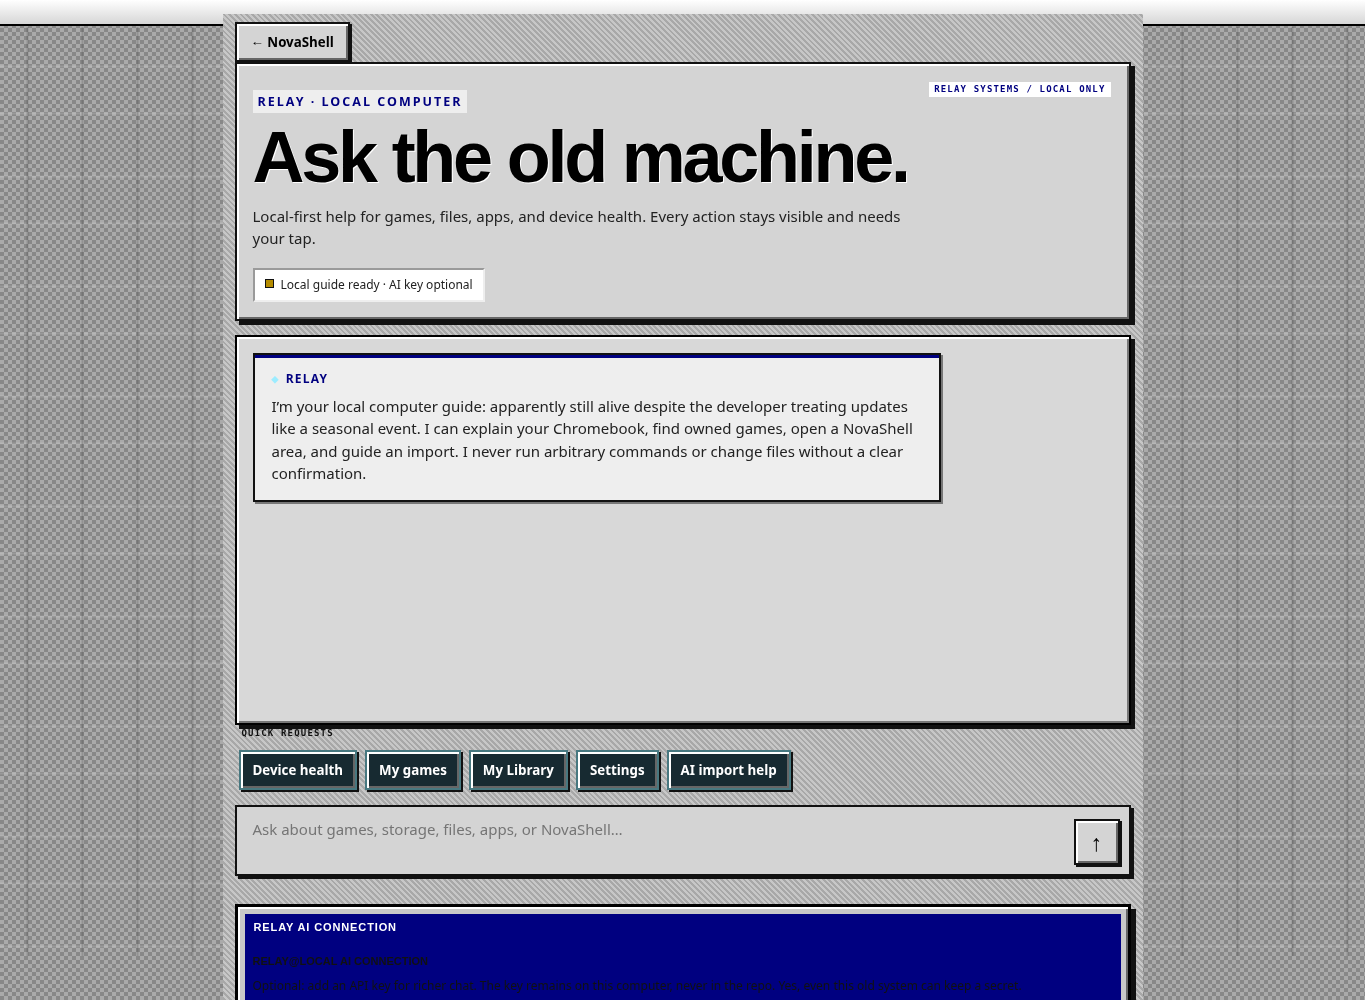
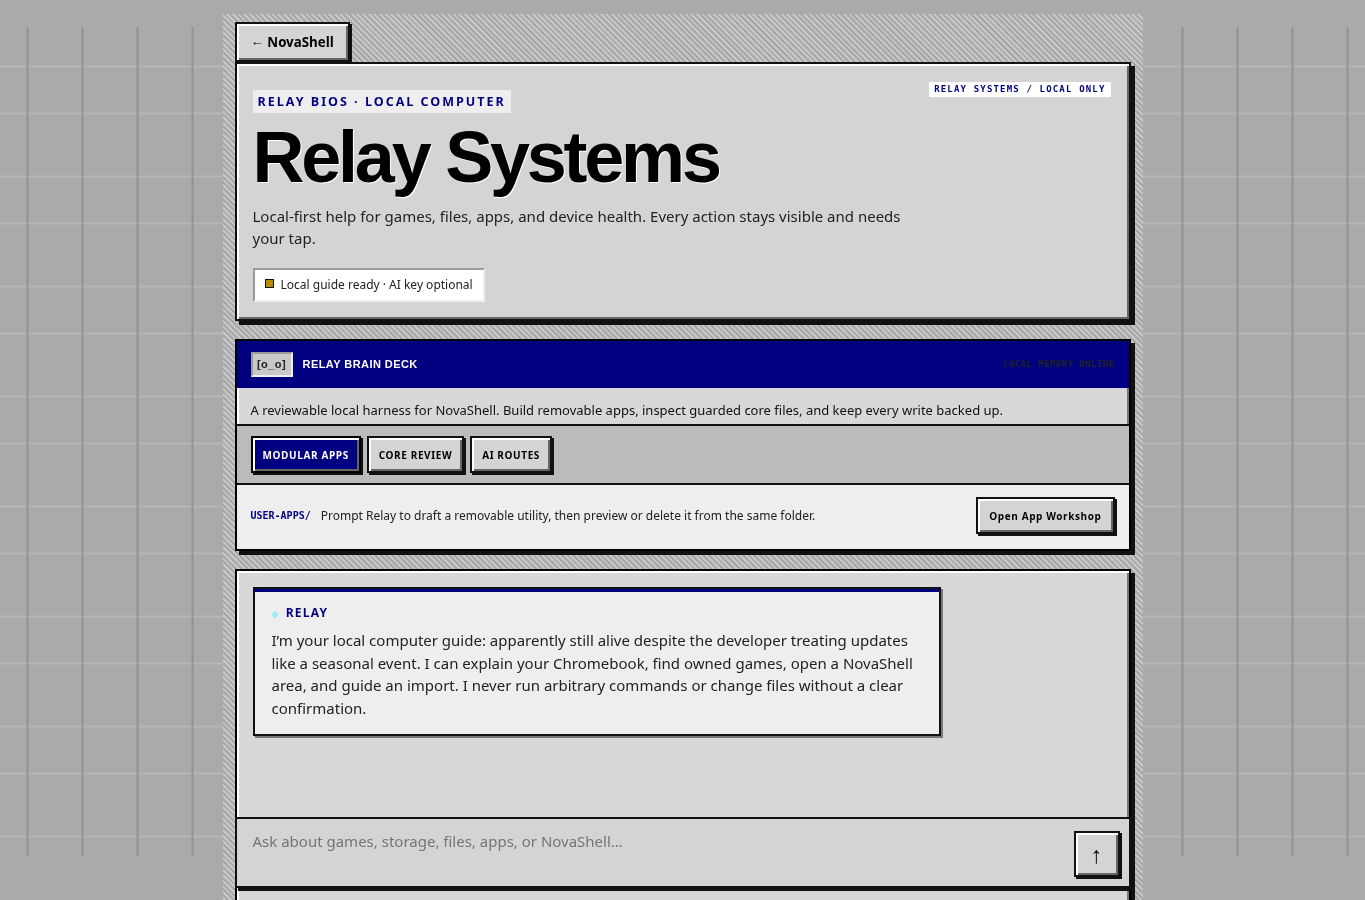
surface relay brain deck in retro terminal

diff --git a/assets/scripts/homebase/relay-brain-panel.js b/assets/scripts/homebase/relay-brain-panel.js
@@ -1,1 +1,20 @@
-(()=>{const boot=async()=>{const host=document.querySelector('.console-shell');if(!host||document.querySelector('#relay-brain'))return;const panel=document.createElement('section');panel.id='relay-brain';panel.className='assistant-terminal';panel.innerHTML='<div><span>RELAY@LOCAL</span><b> BRAIN & ACCESS</b></div><p><b>App agent</b> creates removable utilities in <code>user-apps/</code>. <b>Developer agent</b> may draft only allowlisted core edits; every write requires review, exact confirmation, and a local backup.</p><nav class="relay-tabs"><button data-tab="access">Access</button><button data-tab="free">Free AI routes</button></nav><div data-pane="access"><div class="relay-brain-actions"><button data-scope="app">Open app workshop</button><button data-scope="core">Open core editor</button><button data-scope="notes">Read Brain notes</button></div></div><div data-pane="free" hidden><p>Relay currently uses the configured Responses-compatible provider for both modular app drafts and core review drafts. Add a key in AI Connection; a route is only listed here when that same provider can safely serve both workflows.</p><a href="https://platform.openai.com/api-keys" target="_blank" rel="noopener">OpenAI API keys</a><a href="https://openrouter.ai/keys" target="_blank" rel="noopener">OpenRouter keys (adapter pending)</a><small>Keys remain local. Core writes still require an explicit reviewed confirmation.</small></div><small>Loading local conventions…</small>';host.querySelector('footer')?.before(panel);const note=panel.querySelector('small');try{const data=await fetch('/api/relay/knowledge').then(r=>r.json());note.textContent=(data.entries||[]).map(item=>item.path).join(' · ')||'No local Brain notes yet.'}catch{note.textContent='Restart Homebase to load local Brain notes.'}panel.querySelectorAll('.relay-tabs button').forEach(button=>button.onclick=()=>{panel.querySelectorAll('[data-pane]').forEach(pane=>pane.hidden=pane.dataset.pane!==button.dataset.tab)});panel.querySelector('[data-scope="app"]').onclick=()=>document.querySelector('#app-workshop textarea')?.focus();panel.querySelector('[data-scope="core"]').onclick=()=>document.querySelector('#relay-workspace [data-load]')?.click();panel.querySelector('[data-scope="notes"]').onclick=async()=>{try{const data=await fetch('/api/relay/knowledge').then(r=>r.json());note.textContent=(data.entries||[]).map(item=>item.path).join(' · ')}catch{note.textContent='Local Brain is unavailable.'}};document.head.insertAdjacentHTML('beforeend','<style>#relay-brain{margin-top:14px}.relay-brain-actions,.relay-tabs{display:flex;gap:8px;flex-wrap:wrap}.relay-brain-actions button,.relay-tabs button{min-height:40px}.relay-tabs{margin:12px 0}.relay-tabs button:first-child{background:#000080!important;color:#fff!important}#relay-brain [data-pane="free"] a{display:block;margin:8px 0;color:#78b6ff}html[data-theme="ultra-retro"] #relay-brain code{color:#000080!important}</style>')};document.readyState==='loading'?addEventListener('DOMContentLoaded',boot,{once:true}):boot()})();
+(()=>{
+  const request=async path=>{const response=await fetch(path);const data=await response.json().catch(()=>({}));if(!response.ok)throw Error(data.error||'Local Brain is unavailable.');return data};
+  const boot=async()=>{
+    const host=document.querySelector('.console-shell');
+    const header=host?.querySelector('header');
+    if(!host||!header||document.querySelector('#relay-brain'))return;
+    const panel=document.createElement('section');
+    panel.id='relay-brain';panel.className='relay-brain-deck';
+    panel.innerHTML=`<div class="relay-brain-title"><span class="relay-brain-face" aria-hidden="true">[o_o]</span><b>RELAY BRAIN DECK</b><small>LOCAL MEMORY ONLINE</small></div><p class="relay-brain-lede">A reviewable local harness for NovaShell. Build removable apps, inspect guarded core files, and keep every write backed up.</p><nav class="relay-brain-tabs" aria-label="Relay Brain tools"><button type="button" data-tab="workshop" class="is-active">MODULAR APPS</button><button type="button" data-tab="core">CORE REVIEW</button><button type="button" data-tab="routes">AI ROUTES</button></nav><div class="relay-brain-pane" data-pane="workshop"><b>USER-APPS/</b><span>Prompt Relay to draft a removable utility, then preview or delete it from the same folder.</span><button type="button" data-open="app">Open App Workshop</button></div><div class="relay-brain-pane" data-pane="core" hidden><b>GUARDED CORE/</b><span>Load an allowlisted source file, review a draft, and explicitly confirm before saving. A timestamped backup is made first.</span><button type="button" data-open="core">Open Core Editor</button></div><div class="relay-brain-pane" data-pane="routes" hidden><b>CONFIGURED PROVIDER/</b><span>The local API key configured in AI Connection powers both app drafts and reviewed core drafts. Keys remain on this device.</span><button type="button" data-open="key">Configure AI Connection</button><a href="https://platform.openai.com/api-keys" target="_blank" rel="noopener">Get an OpenAI API key ↗</a><small class="relay-brain-notes">Reading Brain conventions…</small></div>`;
+    header.after(panel);
+    const panes=[...panel.querySelectorAll('[data-pane]')];
+    panel.querySelectorAll('[data-tab]').forEach(button=>button.onclick=()=>{const active=button.dataset.tab;panel.querySelectorAll('[data-tab]').forEach(item=>item.classList.toggle('is-active',item===button));panes.forEach(pane=>pane.hidden=pane.dataset.pane!==active)});
+    const reveal=selector=>{document.querySelector(selector)?.scrollIntoView({behavior:'smooth',block:'center'});document.querySelector(selector)?.focus?.()};
+    panel.querySelector('[data-open="app"]').onclick=()=>reveal('#app-workshop textarea');
+    panel.querySelector('[data-open="core"]').onclick=()=>{reveal('#relay-workspace');document.querySelector('#relay-workspace [data-load]')?.click()};
+    panel.querySelector('[data-open="key"]').onclick=()=>reveal('#assistant-key input');
+    try{const data=await request('/api/relay/knowledge');panel.querySelector('.relay-brain-notes').textContent=(data.entries||[]).map(item=>item.path).join(' · ')||'No local Brain conventions loaded.'}catch(error){panel.querySelector('.relay-brain-notes').textContent=error.message}
+  };
+  if(document.readyState==='loading')addEventListener('DOMContentLoaded',boot,{once:true});else boot();
+})();

diff --git a/assets/styles/homebase/relay-brain-deck.css b/assets/styles/homebase/relay-brain-deck.css
@@ -1,0 +1,1 @@
+.relay-brain-deck{margin:18px 0;padding:0;border:1px solid #73cbe055;border-radius:18px;background:linear-gradient(135deg,#09141adf,#10262bdd);overflow:hidden;box-shadow:inset 0 1px #fff1,0 12px 30px #0003}.relay-brain-title{display:flex;align-items:center;gap:10px;padding:11px 14px;background:linear-gradient(90deg,#0b2731,#16434c);color:#dffaff;font:700 11px ui-monospace,SFMono-Regular,monospace;letter-spacing:.11em}.relay-brain-title small{margin-left:auto;color:#9cecf1;font:700 9px ui-monospace,SFMono-Regular,monospace}.relay-brain-face{display:inline-grid;place-items:center;width:42px;height:25px;border:1px solid #8ce7ef66;border-radius:5px;color:#9feef8;background:#041116;animation:relayBrainPulse 1.8s steps(2,end) infinite}@keyframes relayBrainPulse{50%{filter:brightness(1.35);transform:translateY(-1px)}}.relay-brain-lede{margin:0;padding:13px 14px 4px;color:#c2d6d9;font-size:13px}.relay-brain-tabs{display:flex;gap:6px;flex-wrap:wrap;padding:10px 14px}.relay-brain-tabs button,.relay-brain-pane button{min-height:37px;border:1px solid #8ee8fa55;border-radius:9px;background:#8ee8fa12;color:#dffaff;font:700 10px ui-monospace,SFMono-Regular,monospace;letter-spacing:.06em;cursor:pointer}.relay-brain-tabs button{padding:0 10px}.relay-brain-tabs button.is-active,.relay-brain-tabs button:hover{color:#062027;background:#9beaf5;border-color:#9beaf5}.relay-brain-pane{display:grid;grid-template-columns:auto 1fr auto;align-items:center;gap:10px;padding:12px 14px 15px;border-top:1px solid #8ee8fa2c;color:#c5d9dc;font-size:12px}.relay-brain-pane[hidden]{display:none!important}.relay-brain-pane>b{color:#9cebf4;font:700 10px ui-monospace,SFMono-Regular,monospace}.relay-brain-pane button{padding:0 11px}.relay-brain-pane a{color:#8ee8fa;font-weight:700}.relay-brain-notes{grid-column:1/-1;color:#8faeb2;font:10px ui-monospace,SFMono-Regular,monospace;overflow-wrap:anywhere}@media(max-width:650px){.relay-brain-pane{grid-template-columns:1fr}.relay-brain-title small{display:none}}html[data-theme="ultra-retro"] .relay-brain-deck{border:3px solid #111;border-radius:0;background:#d4d4d4;box-shadow:inset 2px 2px #fff,inset -2px -2px #666,4px 4px #111}html[data-theme="ultra-retro"] .relay-brain-title{background:#000080;color:#fff;font-family:"MS Sans Serif",Tahoma,sans-serif;letter-spacing:.04em}html[data-theme="ultra-retro"] .relay-brain-title small{color:#fff}html[data-theme="ultra-retro"] .relay-brain-face{border:2px inset #eee;border-radius:0;background:#c8c8c8;color:#000080;animation:relayBrainRetro 1.2s steps(2,end) infinite}@keyframes relayBrainRetro{50%{color:#fff;background:#000080}}html[data-theme="ultra-retro"] .relay-brain-lede{color:#111!important}html[data-theme="ultra-retro"] .relay-brain-tabs{border-top:2px solid #111;background:#bbb}html[data-theme="ultra-retro"] .relay-brain-tabs button,html[data-theme="ultra-retro"] .relay-brain-pane button{border:2px outset #eee;border-radius:0;background:#d4d4d4;color:#000!important;box-shadow:inset 1px 1px #fff,inset -1px -1px #666}html[data-theme="ultra-retro"] .relay-brain-tabs button.is-active,html[data-theme="ultra-retro"] .relay-brain-tabs button:hover{background:#000080!important;color:#fff!important;border-color:#000!important}html[data-theme="ultra-retro"] .relay-brain-pane{border-top:2px solid #111;background:#eee;color:#111!important}html[data-theme="ultra-retro"] .relay-brain-pane>b{color:#000080!important}html[data-theme="ultra-retro"] .relay-brain-pane a{color:#000080!important;font-weight:800}html[data-theme="ultra-retro"] .relay-brain-notes{color:#222!important}

diff --git a/pages/console.html b/pages/console.html
@@ -5,7 +5,7 @@
 <script src="/assets/scripts/shared/theme-sync.js"></script><script src="/assets/scripts/homebase/console.js" defer></script>
 <link rel="stylesheet" href="/assets/styles/shared/ultra-retro.css?v=1"></head><body><main class="console-shell">
 <button class="back" onclick="parent.closePocket()">← NovaShell</button>
-<header><small>RELAY · LOCAL COMPUTER</small><h1>Ask the old machine.</h1><p>Local-first help for games, files, apps, and device health. Every action stays visible and needs your tap.</p><span id="connection" class="connection">Checking local assistant…</span></header>
+<header><small>RELAY BIOS · LOCAL COMPUTER</small><h1>Relay Systems</h1><p>Local-first help for games, files, apps, and device health. Every action stays visible and needs your tap.</p><span id="connection" class="connection">Checking local assistant…</span></header>
 <section id="chat" class="chat" aria-live="polite"><article class="assistant"><b>Relay</b><p>I’m your local computer guide: apparently still alive despite the developer treating updates like a seasonal event. I can explain your Chromebook, find owned games, open a NovaShell area, and guide an import. I never run arbitrary commands or change files without a clear confirmation.</p></article></section>
 <div class="suggestions"><button data-prompt="How is my Chromebook doing?">Device health</button><button data-prompt="Show my games">My games</button><button data-prompt="Open my library">My Library</button><button data-prompt="Open settings">Settings</button><button data-prompt="How do I add a game with screenshots?">AI import help</button></div>
 <form id="composer"><textarea id="message" rows="2" placeholder="Ask about games, storage, files, apps, or NovaShell…"></textarea><button class="send" aria-label="Send message">↑</button></form>

diff --git a/sw.js b/sw.js
@@ -1,4 +1,4 @@
-const CACHE='homebase-v71';
+const CACHE='homebase-v72';
 const SHELL=[
   '/', '/index.html', '/manifest.webmanifest', '/assets/icons/homebase-icon.svg',
   '/pages/arcade.html', '/pages/discover.html', '/pages/files.html', '/pages/apps.html',
@@ -19,7 +19,7 @@ const SHELL=[
   '/assets/styles/apps/apps-install-modal.css', '/assets/styles/settings/settings.css', '/assets/styles/settings/settings-desktop-theme-sync.css',
   '/assets/styles/settings/settings-dialog.css', '/assets/styles/shared/modal-global.css',
   '/assets/styles/shared/ultra-retro.css', '/assets/styles/homebase/fake-virus-lab.css', '/assets/styles/apps/apps-icon-alignment.css', '/assets/scripts/homebase/deck.js',
-  '/assets/scripts/homebase/deck-gestures.js', '/assets/scripts/homebase/gyro3d.js', '/assets/scripts/homebase/console.js', '/assets/scripts/homebase/update-check.js', '/assets/styles/homebase/console.css',
+  '/assets/scripts/homebase/deck-gestures.js', '/assets/scripts/homebase/gyro3d.js', '/assets/scripts/homebase/console.js', '/assets/scripts/homebase/relay-brain-panel.js', '/assets/scripts/homebase/relay-workspace.js', '/assets/scripts/homebase/update-check.js', '/assets/styles/homebase/console.css', '/assets/styles/homebase/relay-brain-deck.css',
   '/assets/scripts/homebase/clock.js', '/assets/scripts/homebase/system-insights.js',
   '/assets/scripts/homebase/scroll-motion.js', '/assets/scripts/arcade/game-controls.js',
   '/assets/scripts/arcade/game-capture.js', '/assets/scripts/arcade/game-details.js',

diff --git a/assets/scripts/shared/theme-sync.js b/assets/scripts/shared/theme-sync.js
@@ -1,5 +1,5 @@
 (()=>{
-  if(location.pathname.endsWith('/console.html')&&!document.querySelector('script[data-relay-brain-panel]')){const relayBrain=document.createElement('script');relayBrain.src='/assets/scripts/homebase/relay-brain-panel.js?v=1';relayBrain.dataset.relayBrainPanel='true';document.head.append(relayBrain)}
+  if(location.pathname.endsWith('/console.html')&&!document.querySelector('script[data-relay-brain-panel]')){const brainStyle=document.createElement('link');brainStyle.rel='stylesheet';brainStyle.href='/assets/styles/homebase/relay-brain-deck.css?v=2';document.head.append(brainStyle);const relayBrain=document.createElement('script');relayBrain.src='/assets/scripts/homebase/relay-brain-panel.js?v=2';relayBrain.dataset.relayBrainPanel='true';document.head.append(relayBrain)}
   if(location.pathname.endsWith('/discover.html')&&!document.querySelector('script[data-discovery-resilience]')){document.head.insertAdjacentHTML('beforeend','<link rel="stylesheet" href="/assets/styles/discovery/discover-offline-art.css?v=1">');const discovery=document.createElement('script');discovery.src='/assets/scripts/discovery/discover-resilience.js?v=1';discovery.dataset.discoveryResilience='true';document.head.append(discovery)}
   // Applied synchronously in the document head so a retro page never paints the
   // modern dark palette for a frame while the full stylesheet is being fetched.

diff --git a/assets/scripts/homebase/console.js b/assets/scripts/homebase/console.js
@@ -1,6 +1,6 @@
 (()=>{
   const chat=document.querySelector('#chat'),form=document.querySelector('#composer'),message=document.querySelector('#message'),connection=document.querySelector('#connection');
-  document.querySelector('header small').textContent='RELAY · LOCAL COMPUTER';document.head.insertAdjacentHTML('beforeend','<link rel="stylesheet" href="/assets/styles/homebase/relay-workshop.css?v=94">');
+  document.querySelector('header small').textContent='RELAY BIOS · LOCAL COMPUTER';document.head.insertAdjacentHTML('beforeend','<link rel="stylesheet" href="/assets/styles/homebase/relay-workshop.css?v=95">');
   document.head.insertAdjacentHTML('beforeend','<style>html[data-theme="ultra-retro"] .chat article b,html[data-theme="ultra-retro"] .chat .user b{color:#000080!important;text-shadow:none!important}html[data-theme="ultra-retro"] .console-shell header small{color:#000080!important;background:#eee;padding:3px 5px}</style>');
   const esc=value=>{const node=document.createElement('span');node.textContent=String(value||'');return node.innerHTML};
   const bottom=()=>requestAnimationFrame(()=>{chat.scrollTo({top:chat.scrollHeight,behavior:'smooth'});requestAnimationFrame(()=>chat.scrollTop=chat.scrollHeight)});
